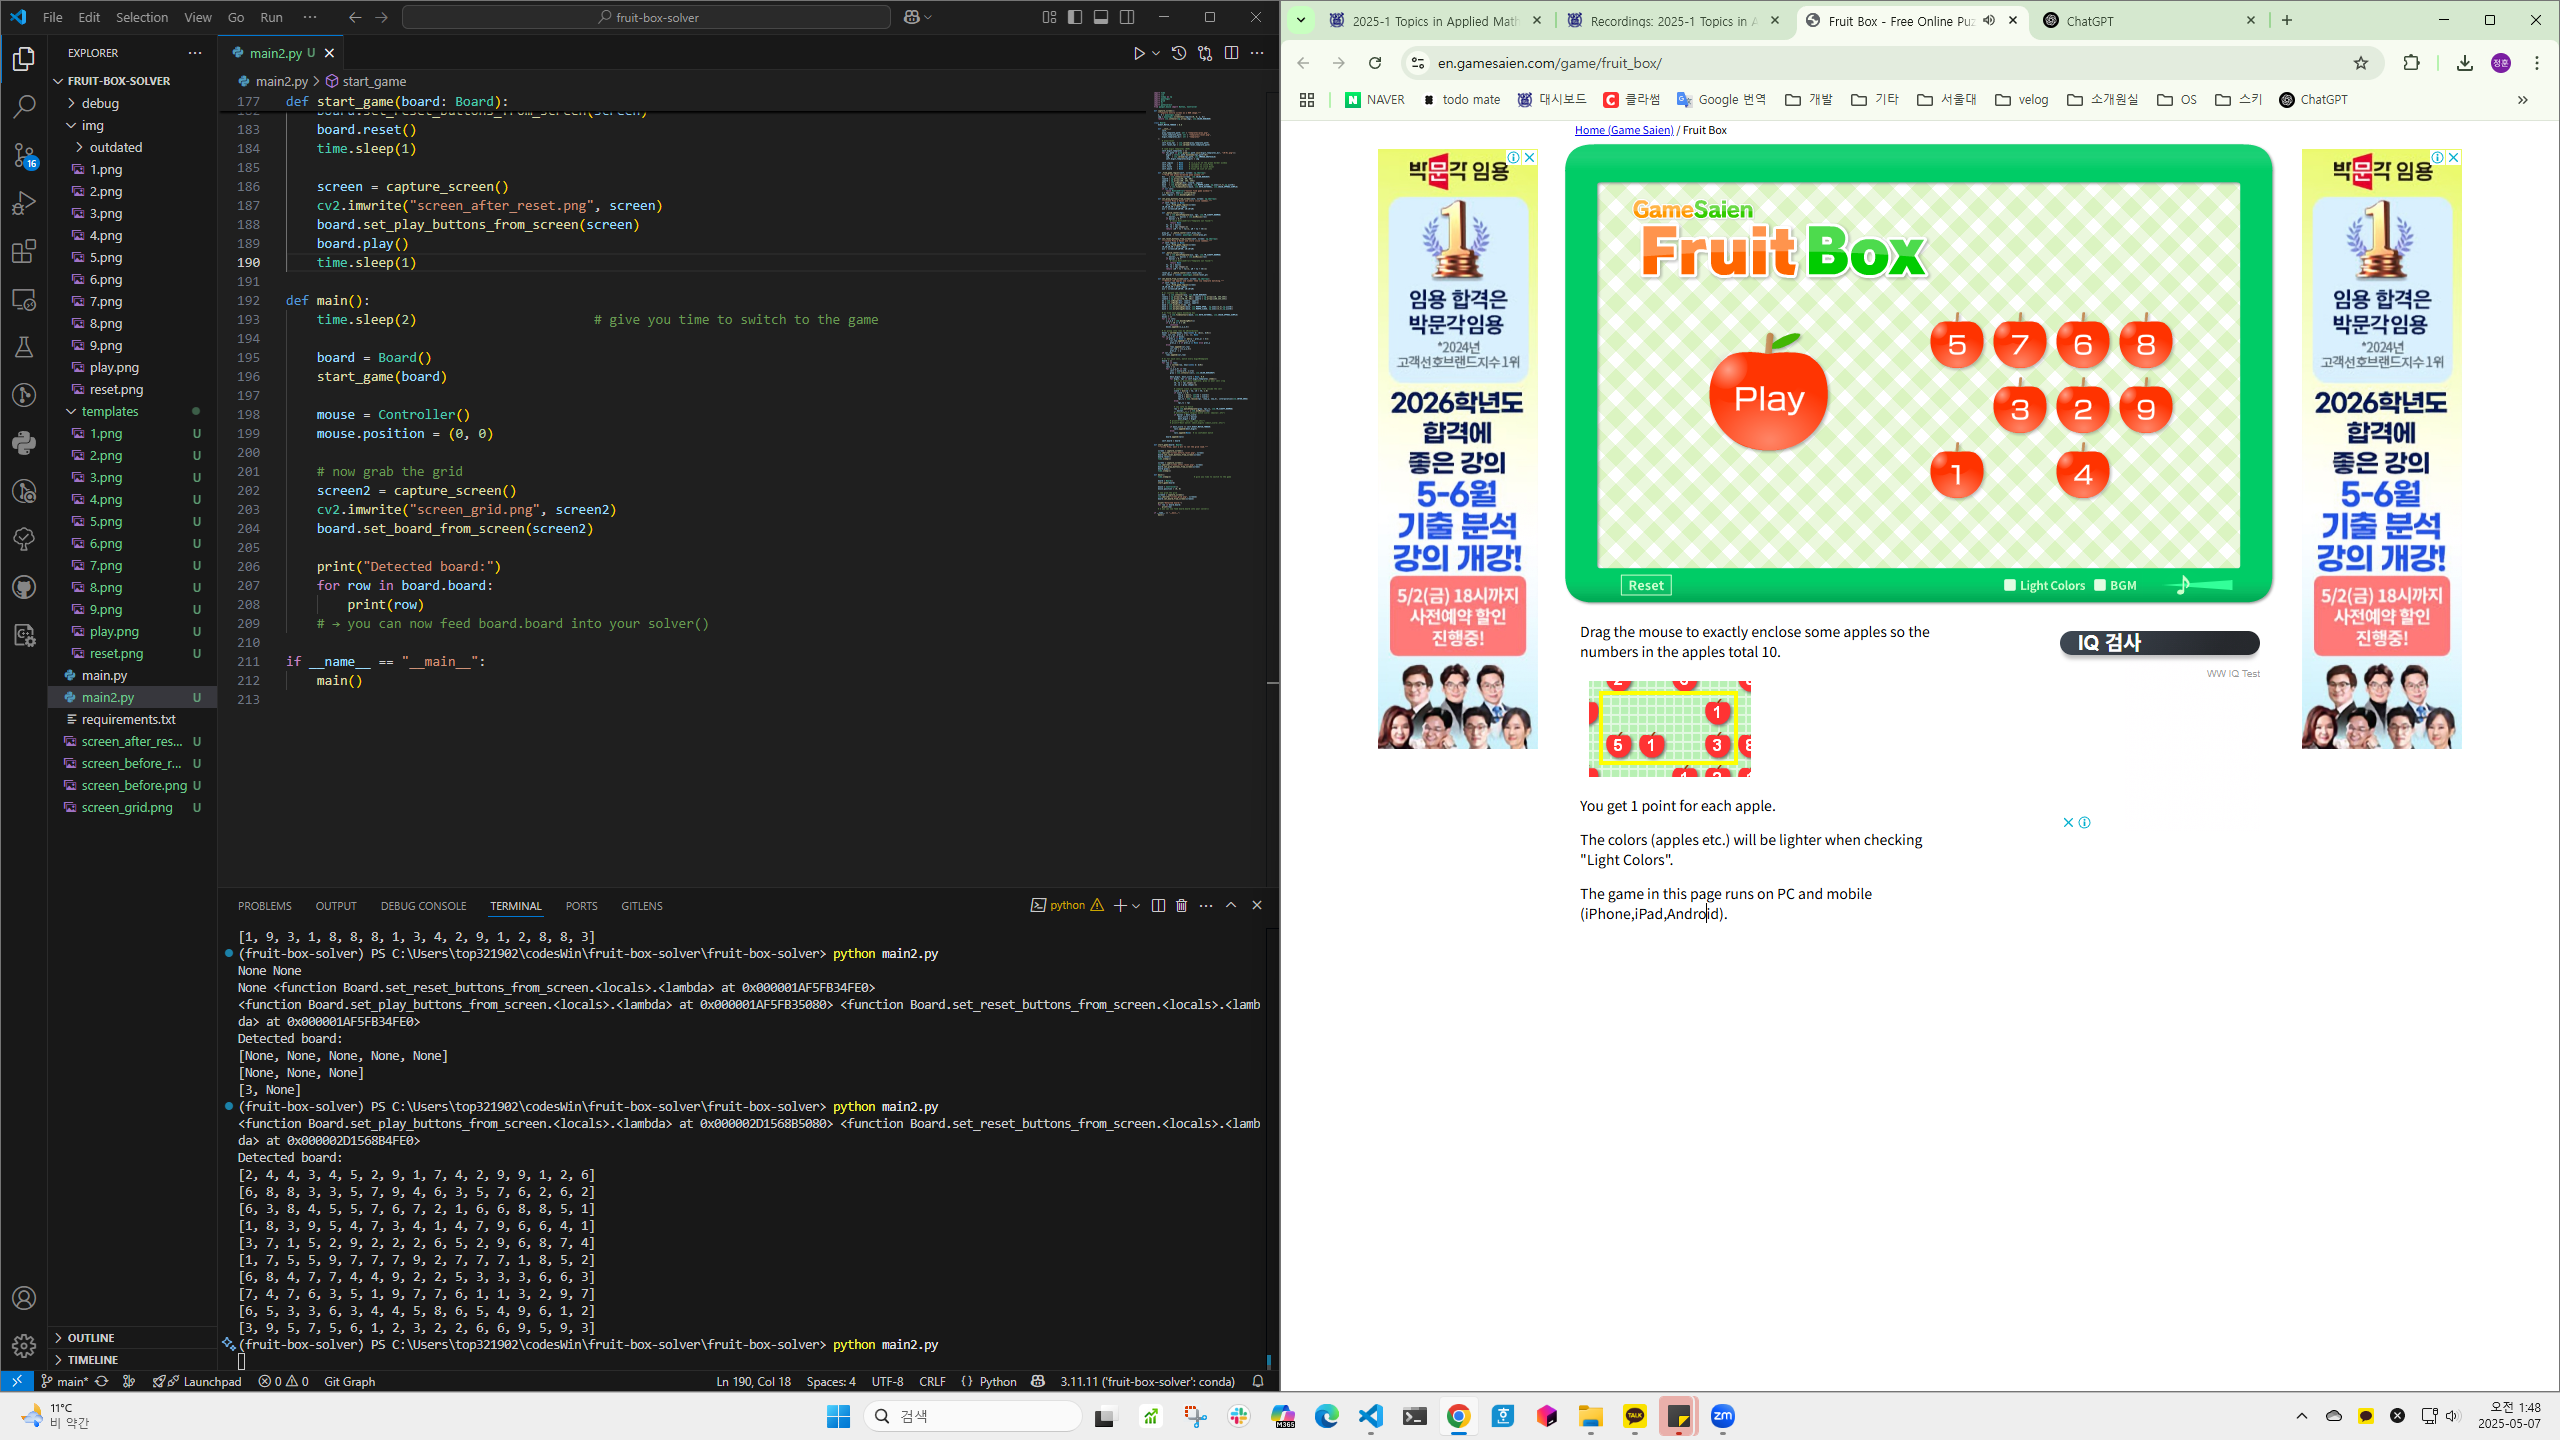
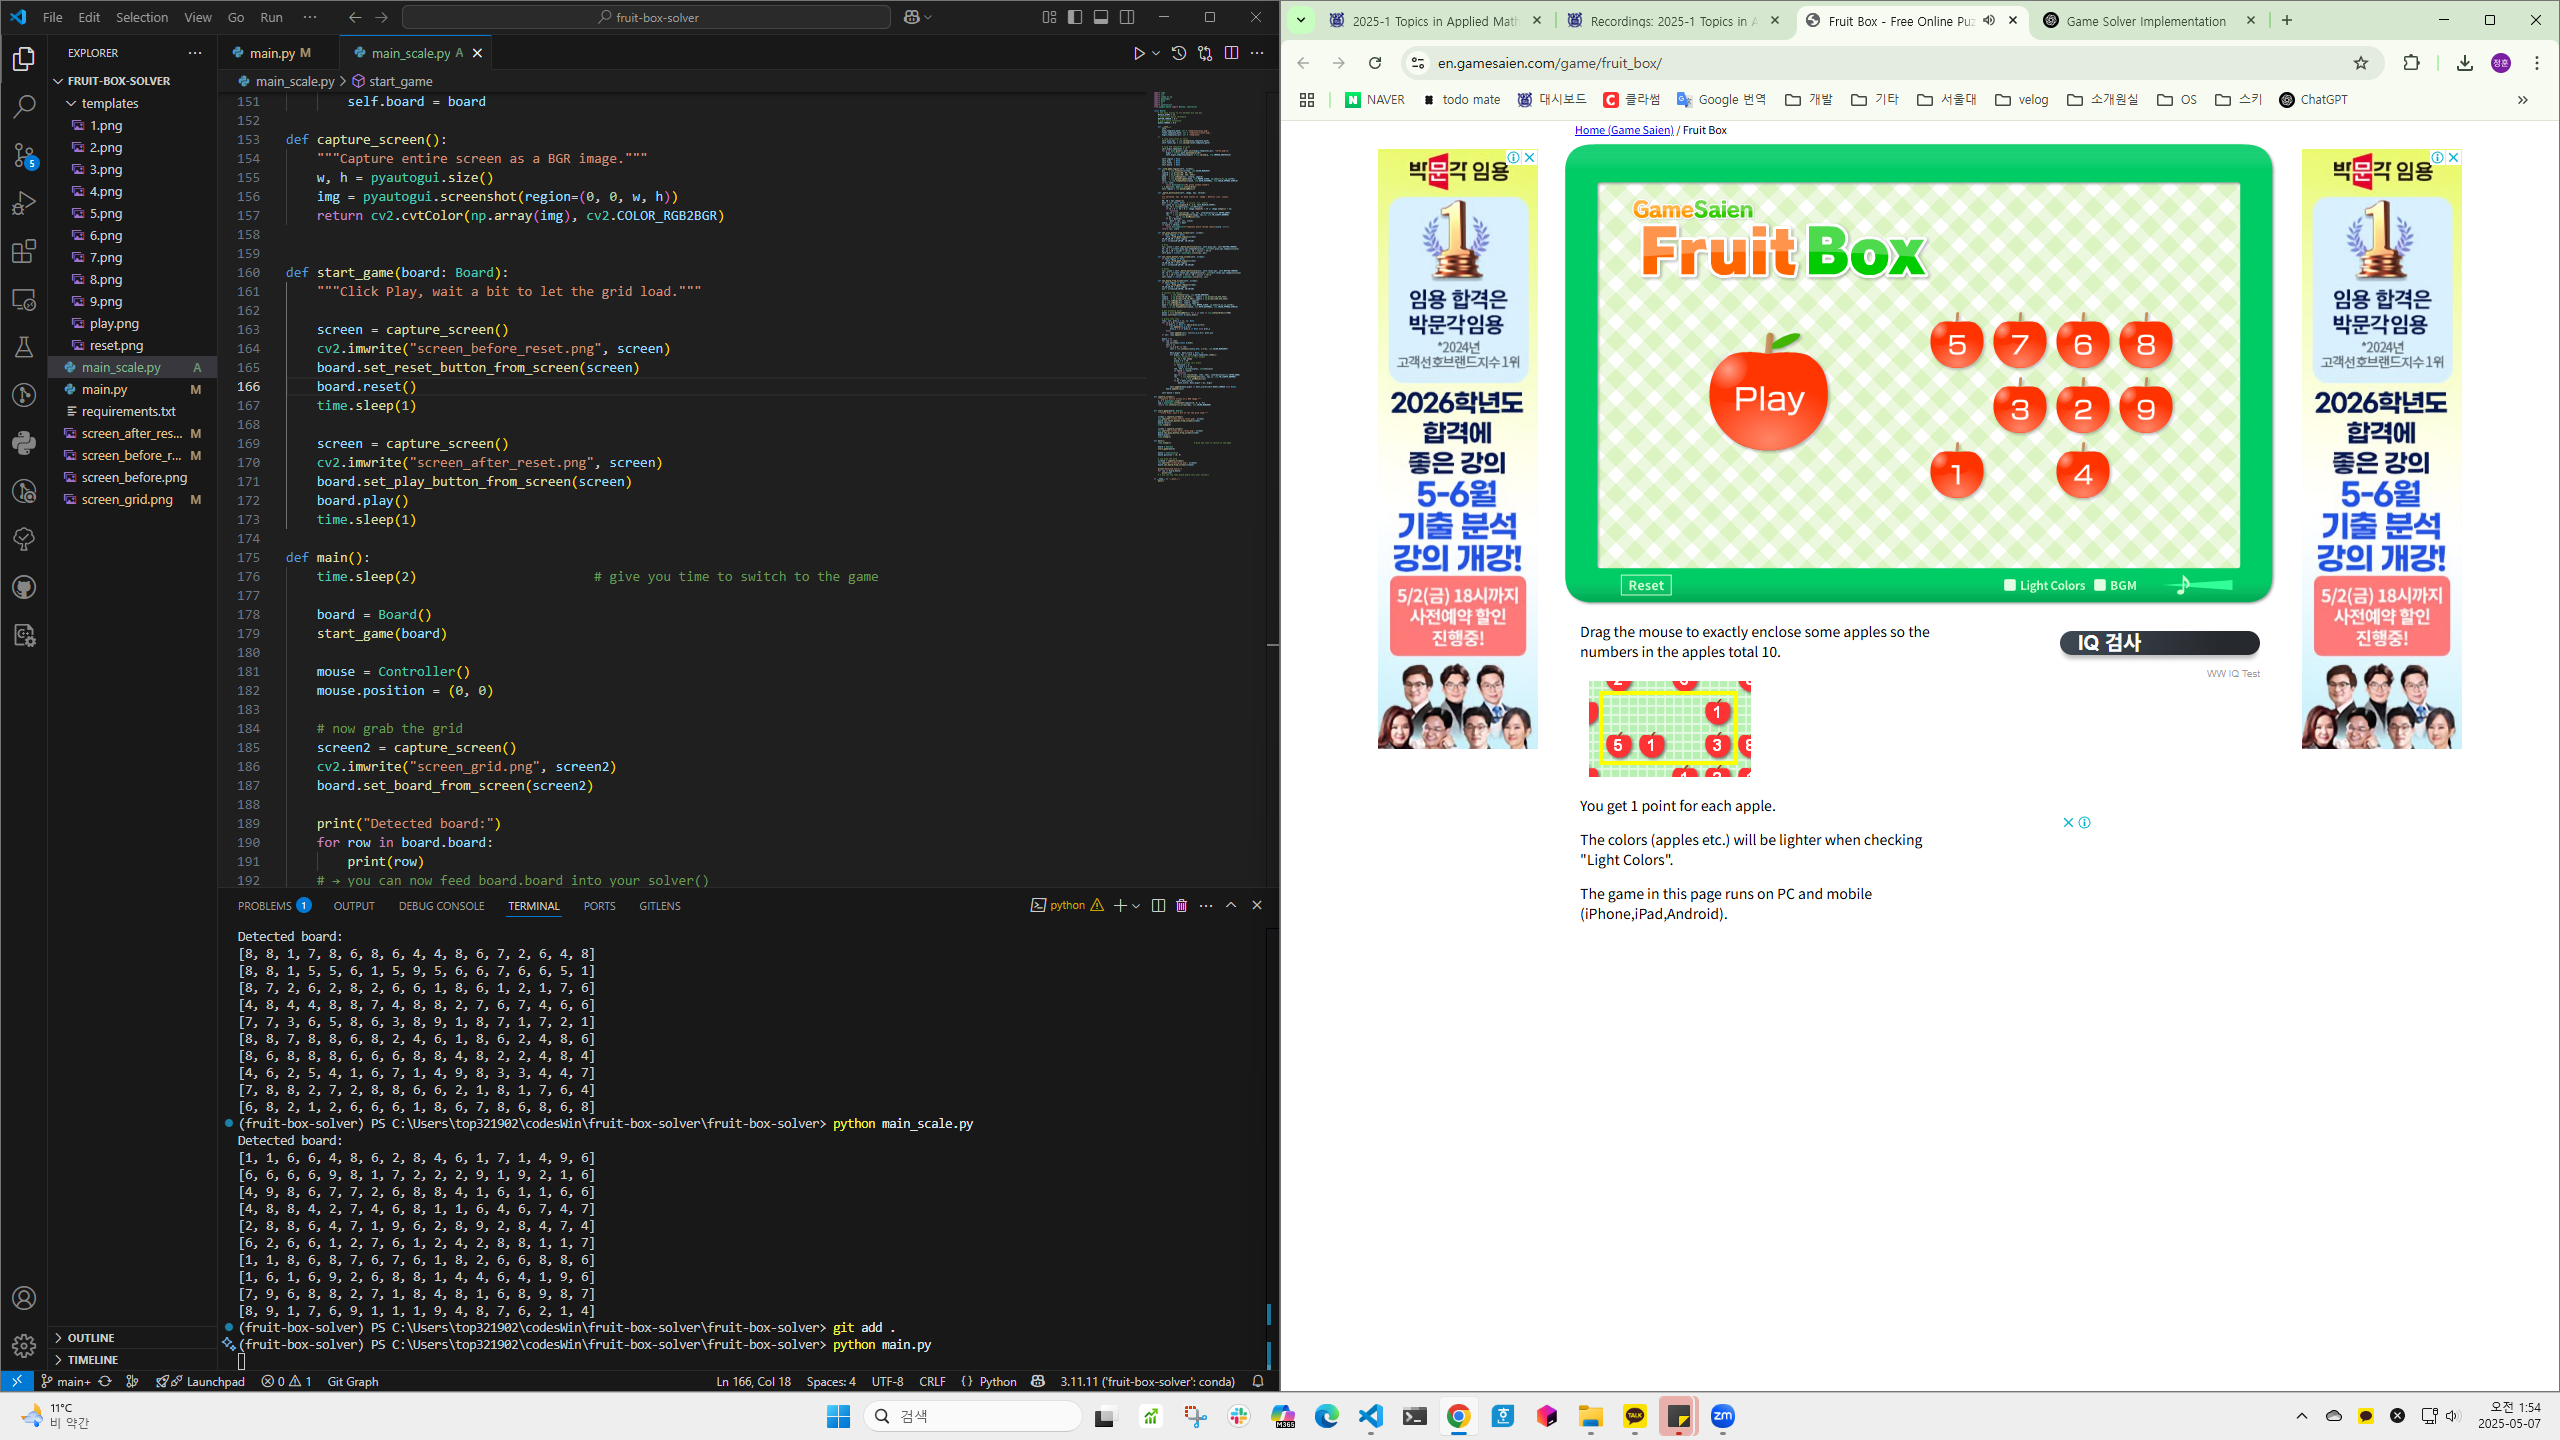
Implement scalable code, but inaccurate

Changed region(s): [[0.0, 0.0312, 0.375, 0.9688], [0.4375, 0.0625, 0.5, 0.375], [0.0312, 0.0625, 0.0625, 0.125]]

diff --git a/main_scale.py b/main_scale.py
@@ -1,0 +1,195 @@
+import time
+import cv2
+import numpy as np
+import pyautogui
+import glob
+import os
+import pytesseract
+from pynput.mouse import Button, Controller
+
+class Board:
+    # how many scales to try between min and max
+    MSCALE_STEPS = 15
+    # play/reset match threshold
+    BUTTON_THRESH = 0.7
+    # digit match threshold
+    DIGIT_THRESH = 0.6
+
+    def __init__(
+        self,
+        play_template_path: str = "templates/play.png",
+        reset_template_path: str = "templates/reset.png",
+        digit_templates_dir: str = "templates"
+    ):
+        # load play/reset in color
+        self.play_tpl  = cv2.imread(play_template_path)
+        self.reset_tpl = cv2.imread(reset_template_path)
+
+        # load 0–9 templates as gray
+        self.digit_templates = {}
+        for p in glob.glob(os.path.join(digit_templates_dir, "[0-9].png")):
+            digit = int(os.path.basename(p)[0])
+            self.digit_templates[digit] = cv2.imread(p, cv2.IMREAD_GRAYSCALE)
+
+        self.region = None
+        self.play   = None
+        self.reset  = None
+        self.board  = None
+
+    def _find_game_region(self, screen):
+        hsv    = cv2.cvtColor(screen, cv2.COLOR_BGR2HSV)
+        lowerG = np.array([40, 60, 60])
+        upperG = np.array([80, 255, 255])
+        mask   = cv2.inRange(hsv, lowerG, upperG)
+        mask   = cv2.morphologyEx(mask, cv2.MORPH_CLOSE, np.ones((7,7),np.uint8))
+        cnts, _ = cv2.findContours(mask, cv2.RETR_EXTERNAL, cv2.CHAIN_APPROX_SIMPLE)
+        if not cnts:
+            raise RuntimeError("No green window found")
+        c = max(cnts, key=cv2.contourArea)
+        self.region = cv2.boundingRect(c)
+
+    def _match_multiscale(self, image, tpl, thresh):
+        """
+        Try matching `tpl` at many scales on `image`. Returns (loc, scale).
+        """
+        h0, w0 = tpl.shape[:2]
+        best = (-1, None, None)  # (score, loc, scale)
+        for scale in np.linspace(0.5, 2.0, self.MSCALE_STEPS):
+            tw, th = int(w0*scale), int(h0*scale)
+            if tw < 8 or th < 8 or image.shape[0] < th or image.shape[1] < tw:
+                continue
+            tpl_rs = cv2.resize(tpl, (tw, th), interpolation=cv2.INTER_AREA)
+            res    = cv2.matchTemplate(image, tpl_rs, cv2.TM_CCOEFF_NORMED)
+            _, mx, _, loc = cv2.minMaxLoc(res)
+            if mx > best[0]:
+                best = (mx, loc, scale)
+        score, loc, scale = best
+        if score < thresh:
+            raise RuntimeError(f"Template match failed (best={score:.2f})")
+        return loc, scale
+
+    def set_play_button_from_screen(self, screen):
+        if self.region is None:
+            self._find_game_region(screen)
+        x0,y0,w0,h0 = self.region
+        win = screen[y0:y0+h0, x0:x0+w0]
+
+        # Play
+        loc, scale = self._match_multiscale(win, self.play_tpl, self.BUTTON_THRESH)
+        th, tw = int(self.play_tpl.shape[0]*scale), int(self.play_tpl.shape[1]*scale)
+        px, py = x0 + loc[0] + tw//2, y0 + loc[1] + th//2
+        self.play = lambda: pyautogui.click((px, py))
+
+    def set_reset_button_from_screen(self, screen):
+        if self.region is None:
+            self._find_game_region(screen)
+        x0,y0,w0,h0 = self.region
+        win = screen[y0:y0+h0, x0:x0+w0]
+        
+        # Reset
+        loc, scale = self._match_multiscale(win, self.reset_tpl, self.BUTTON_THRESH)
+        th, tw = int(self.reset_tpl.shape[0]*scale), int(self.reset_tpl.shape[1]*scale)
+        rx, ry = x0 + loc[0] + tw//2, y0 + loc[1] + th//2
+        self.reset = lambda: pyautogui.click((rx, ry))
+
+    def set_board_from_screen(self, screen):
+        if self.region is None:
+            self._find_game_region(screen)
+        x0,y0,w0,h0 = self.region
+        win = screen[y0:y0+h0, x0:x0+w0]
+
+        # isolate red apples
+        hsv      = cv2.cvtColor(win, cv2.COLOR_BGR2HSV)
+        lower1   = np.array([0,70,50]);   upper1 = np.array([10,255,255])
+        lower2   = np.array([170,70,50]); upper2 = np.array([180,255,255])
+        m1 = cv2.inRange(hsv, lower1, upper1)
+        m2 = cv2.inRange(hsv, lower2, upper2)
+        mask = cv2.morphologyEx(m1|m2, cv2.MORPH_CLOSE, np.ones((3,3),np.uint8))
+        cnts, _ = cv2.findContours(mask, cv2.RETR_EXTERNAL, cv2.CHAIN_APPROX_SIMPLE)
+
+        # get bounding boxes
+        boxes = [cv2.boundingRect(c) for c in cnts if cv2.contourArea(c)>200]
+        boxes.sort(key=lambda b:(b[1],b[0]))
+
+        # group into rows
+        rows, cur, prev_y = [], [], None
+        for (x,y,w,h) in boxes:
+            if prev_y is None or abs(y-prev_y)<h/2:
+                cur.append((x,y,w,h))
+                prev_y = y if prev_y is None else prev_y
+            else:
+                rows.append(cur); cur=[(x,y,w,h)]; prev_y=y
+        if cur: rows.append(cur)
+
+        board = []
+        for row in rows:
+            row.sort(key=lambda b:b[0])
+            vals = []
+            for (x,y,w,h) in row:
+                cell = cv2.cvtColor(win[y:y+h, x:x+w], cv2.COLOR_BGR2GRAY)
+
+                best_digit, best_score = None, -1
+                for digit, tpl in self.digit_templates.items():
+                    # scale template to cell height
+                    th, tw = tpl.shape
+                    scale = h / th
+                    # keep it inside cell width
+                    if tw*scale > w:
+                        scale = w / tw
+                    tw2, th2 = int(tw*scale), int(th*scale)
+                    if tw2<8 or th2<8:
+                        continue
+                    tpl_rs = cv2.resize(tpl, (tw2, th2), interpolation=cv2.INTER_AREA)
+                    res    = cv2.matchTemplate(cell, tpl_rs, cv2.TM_CCOEFF_NORMED)
+                    _, mx, _, _ = cv2.minMaxLoc(res)
+                    if mx > best_score:
+                        best_score, best_digit = mx, digit
+
+                vals.append(best_digit if best_score>=self.DIGIT_THRESH else None)
+            board.append(vals)
+
+        self.board = board
+        
+def capture_screen():
+    """Capture entire screen as a BGR image."""
+    w, h = pyautogui.size()
+    img = pyautogui.screenshot(region=(0, 0, w, h))
+    return cv2.cvtColor(np.array(img), cv2.COLOR_RGB2BGR)
+
+
+def start_game(board: Board):
+    """Click Play, wait a bit to let the grid load."""
+    
+    screen = capture_screen()
+    cv2.imwrite("screen_before_reset.png", screen)
+    board.set_reset_button_from_screen(screen)
+    board.reset()
+    time.sleep(1)
+    
+    screen = capture_screen()
+    cv2.imwrite("screen_after_reset.png", screen)
+    board.set_play_button_from_screen(screen)
+    board.play()
+    time.sleep(1)
+
+def main():
+    time.sleep(2)                       # give you time to switch to the game
+    
+    board = Board()
+    start_game(board)
+    
+    mouse = Controller()
+    mouse.position = (0, 0)
+
+    # now grab the grid
+    screen2 = capture_screen()
+    cv2.imwrite("screen_grid.png", screen2)
+    board.set_board_from_screen(screen2)
+
+    print("Detected board:")
+    for row in board.board:
+        print(row)
+    # → you can now feed board.board into your solver()
+
+if __name__ == "__main__":
+    main()

diff --git a/main.py b/main.py
@@ -51,7 +51,7 @@ class Board:
         c = max(cnts, key=cv2.contourArea)
         self.region = cv2.boundingRect(c)
 
-    def set_play_buttons_from_screen(self, screen: np.ndarray):
+    def set_play_button_from_screen(self, screen: np.ndarray):
         """Locate Play & Reset and store click lambdas."""
         if self.region is None:
             self._find_game_region(screen)
@@ -71,7 +71,7 @@ class Board:
         play_pt  = _match_center(self.play_tpl)
         self.play  = lambda: pyautogui.click(play_pt)
     
-    def set_reset_buttons_from_screen(self, screen: np.ndarray):
+    def set_reset_button_from_screen(self, screen: np.ndarray):
         """Locate Play & Reset and store click lambdas."""
         if self.region is None:
             self._find_game_region(screen)
@@ -179,13 +179,13 @@ def start_game(board: Board):
     
     screen = capture_screen()
     cv2.imwrite("screen_before_reset.png", screen)
-    board.set_reset_buttons_from_screen(screen)
+    board.set_reset_button_from_screen(screen)
     board.reset()
     time.sleep(1)
     
     screen = capture_screen()
     cv2.imwrite("screen_after_reset.png", screen)
-    board.set_play_buttons_from_screen(screen)
+    board.set_play_button_from_screen(screen)
     board.play()
     time.sleep(1)
 
